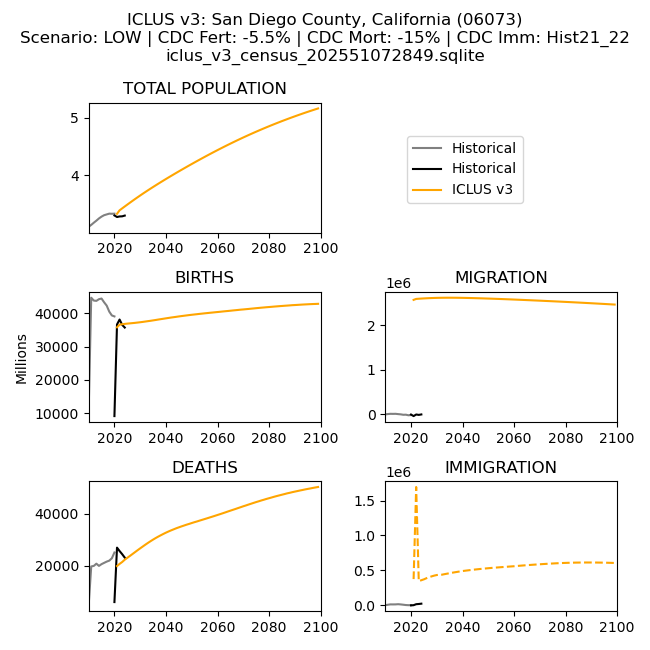
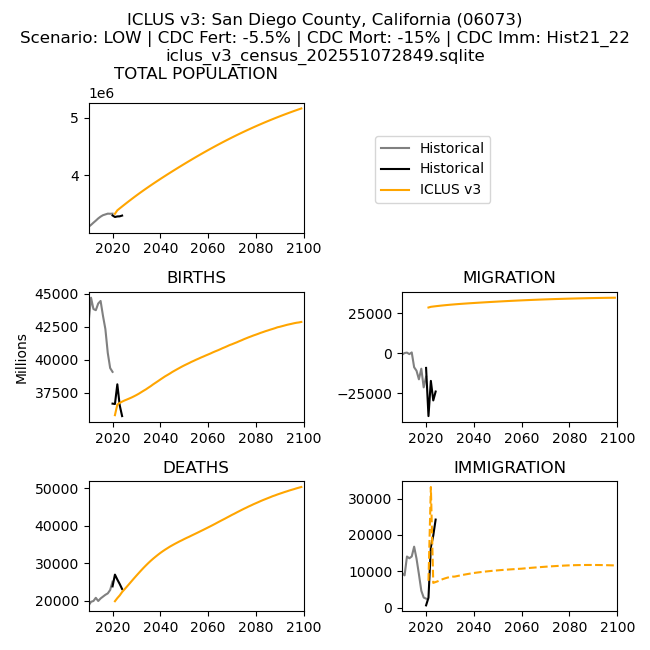
refining figures

diff --git a/population/figures/scripts/county_components_of_change_iclusv3.py b/population/figures/scripts/county_components_of_change_iclusv3.py
@@ -35,12 +35,6 @@ POPULATION_DB = os.path.join(BASE_FOLDER, 'inputs', 'databases', 'population.sql
 # CDC_IMM = 'Hist21_24'
 # SCENARIO = 'mid'
 
-# PROJECTIONS_DB = os.path.join(BASE_FOLDER, 'outputs', 'iclus_v3_census_202556221624.sqlite')
-# CDC_FERT = '-5.5%'
-# CDC_MORT = '-15%'
-# CDC_IMM = 'Hist21_24'
-# SCENARIO = 'hi'
-
 # PROJECTIONS_DB = os.path.join(BASE_FOLDER, 'outputs', 'iclus_v3_census_202557114026.sqlite')
 # CDC_FERT = '-5.5%'
 # CDC_MORT = 'No adj'
@@ -70,14 +64,32 @@ CDC_FERT = '-5.5%'
 CDC_MORT = '-15%'
 CDC_IMM = 'Hist21_22'
 SCENARIO = 'low'
-COFIPS = '06073'
 
+# PROJECTIONS_DB = os.path.join(BASE_FOLDER, 'outputs', 'iclus_v3_census_202558155654.sqlite')
+# CDC_FERT = 'No adj'
+# CDC_MORT = 'No adj'
+# CDC_IMM = 'Hist21_22'
+# SCENARIO = 'mid'
+
+# PROJECTIONS_DB = os.path.join(BASE_FOLDER, 'outputs', 'iclus_v3_census_202556221624.sqlite')
+# CDC_FERT = '-5.5%'
+# CDC_MORT = '-15%'
+# CDC_IMM = 'Hist21_24'
+# SCENARIO = 'hi'
+
+COFIPS_LIST = ('48301',  # Loving County, TX
+               '06037',  # LOs Angeles County, CA
+               '31055',  # Douglas County, NE
+               '41051',  # Multnomah County, OR
+               '51059',  # Fairfax County, VA
+               '29019')  # Boone County, MO
 
 
 class FigureMaker():
-    def __init__(self):
+    def __init__(self, cofips):
         self.fig = plt.figure(figsize=(6.5, 6.5), constrained_layout=True)
         self.gs = self.fig.add_gridspec(3, 2)
+        self.cofips = cofips
 
         # total population
         self.get_historical_total_population()
@@ -104,7 +116,7 @@ class FigureMaker():
         self.get_iclus_v3_projected_immigration()
         self.plot_immigration()
 
-        self.fig.suptitle(f"ICLUS v3: {self.county_name}, {self.state_name} ({COFIPS})\nScenario: {SCENARIO.upper()} | CDC Fert: {CDC_FERT} | CDC Mort: {CDC_MORT} | CDC Imm: {CDC_IMM}\n{os.path.basename(PROJECTIONS_DB)}"
+        self.fig.suptitle(f"ICLUS v3: {self.county_name}, {self.state_name} ({self.cofips})\nScenario: {SCENARIO.upper()} | CDC Fert: {CDC_FERT} | CDC Mort: {CDC_MORT} | CDC Imm: {CDC_IMM}\n{os.path.basename(PROJECTIONS_DB)}"
 )
         plt.tight_layout()
         self.ax_births.legend(bbox_to_anchor=(1.9, 2.25))
@@ -115,12 +127,12 @@ class FigureMaker():
         con = sqlite3.connect(POPULATION_DB)
         sql = f'SELECT YEAR, POPULATION \
                FROM county_population_ageracegender_2010_to_2020 \
-               WHERE COFIPS == "{COFIPS}"'
+               WHERE COFIPS == "{self.cofips}"'
         self.hist_pop_one = pd.read_sql_query(sql=sql, con=con)
         con.close()
 
         self.hist_pop_one = self.hist_pop_one.groupby(by='YEAR', as_index=False).sum()
-        self.hist_pop_one['POPULATION'] /= 1000000
+        # self.hist_pop_one['POPULATION'] /= 1000000
 
         # historical population, 2020-2024
         csv = os.path.join(CENSUS_CSV_PATH, '2024\\co-est2024-alldata.csv')
@@ -128,7 +140,7 @@ class FigureMaker():
         columns = ['STATE', 'COUNTY', 'STNAME', 'CTYNAME'] + ['POPESTIMATE' + str(year) for year in range(2020, 2025)]
         self.hist_pop_two = self.hist_pop_two[columns]
         self.hist_pop_two['COFIPS'] = self.hist_pop_two['STATE'].astype(str).str.zfill(2) + self.hist_pop_two['COUNTY'].astype(str).str.zfill(3)
-        self.hist_pop_two = self.hist_pop_two.query('COFIPS == @COFIPS')
+        self.hist_pop_two = self.hist_pop_two.query('COFIPS == @self.cofips')
         self.county_name = self.hist_pop_two['CTYNAME'].values[0]
         self.state_name = self.hist_pop_two['STNAME'].values[0]
         self.hist_pop_two.drop(columns=['STATE', 'COUNTY', 'STNAME', 'CTYNAME'], inplace=True)
@@ -136,12 +148,12 @@ class FigureMaker():
         self.hist_pop_two = self.hist_pop_two.melt(id_vars='COFIPS', var_name='YEAR', value_name='POPULATION')
         self.hist_pop_two = self.hist_pop_two.drop(columns='COFIPS')
         self.hist_pop_two['YEAR'] = self.hist_pop_two['YEAR'].str.replace('POPESTIMATE', '').astype(int)
-        self.hist_pop_two['POPULATION'] /= 1000000
+        # self.hist_pop_two['POPULATION'] /= 1000000
 
     def get_iclus_v3_projected_total_population(self):
         query = f'SELECT * \
                   FROM population_by_race_sex_age_{SCENARIO} \
-                  WHERE GEOID == "{COFIPS}"'
+                  WHERE GEOID == "{self.cofips}"'
         con = sqlite3.connect(PROJECTIONS_DB)
         self.iclusv3_pop = pd.read_sql_query(sql=query, con=con)
         con.close()
@@ -152,7 +164,7 @@ class FigureMaker():
         self.iclusv3_pop = self.iclusv3_pop[['YEAR', 'POPULATION']].groupby(by='YEAR', as_index=False).sum()
         self.iclusv3_pop['YEAR'] = self.iclusv3_pop['YEAR'].astype(int64)
         self.iclusv3_pop['POPULATION'] = self.iclusv3_pop['POPULATION'].astype(int64)
-        self.iclusv3_pop['POPULATION'] /= 1000000
+        # self.iclusv3_pop['POPULATION'] /= 1000000
 
 
     def plot_total_population(self):
@@ -175,12 +187,13 @@ class FigureMaker():
         columns = ['STATE', 'COUNTY'] + ['BIRTHS' + str(year) for year in range(2010, 2021)]
         self.hist_births_one = self.hist_births_one[columns]
         self.hist_births_one['COFIPS'] = self.hist_births_one['STATE'].astype(str).str.zfill(2) + self.hist_births_one['COUNTY'].astype(str).str.zfill(3)
-        self.hist_births_one = self.hist_births_one.query('COFIPS == @COFIPS')
+        self.hist_births_one = self.hist_births_one.query('COFIPS == @self.cofips')
         self.hist_births_one.drop(columns=['STATE', 'COUNTY'], inplace=True)
 
         self.hist_births_one = self.hist_births_one.melt(id_vars='COFIPS', var_name='YEAR', value_name='BIRTHS')
         self.hist_births_one = self.hist_births_one.drop(columns='COFIPS')
         self.hist_births_one['YEAR'] = self.hist_births_one['YEAR'].str.replace('BIRTHS', '').astype(int)
+        self.hist_births_one.loc[self.hist_births_one['YEAR'] == 2010, 'BIRTHS'] *= 4
         # self.hist_births_one['BIRTHS'] /= 1000000
 
         # historical births, 2020-2024
@@ -189,18 +202,19 @@ class FigureMaker():
         columns = ['STATE', 'COUNTY'] + ['BIRTHS' + str(year) for year in range(2020, 2025)]
         self.hist_births_two = self.hist_births_two[columns]
         self.hist_births_two['COFIPS'] = self.hist_births_two['STATE'].astype(str).str.zfill(2) + self.hist_births_two['COUNTY'].astype(str).str.zfill(3)
-        self.hist_births_two = self.hist_births_two.query('COFIPS == @COFIPS')
+        self.hist_births_two = self.hist_births_two.query('COFIPS == @self.cofips')
         self.hist_births_two.drop(columns=['STATE', 'COUNTY'], inplace=True)
 
         self.hist_births_two = self.hist_births_two.melt(id_vars='COFIPS', var_name='YEAR', value_name='BIRTHS')
         self.hist_births_two = self.hist_births_two.drop(columns='COFIPS')
         self.hist_births_two['YEAR'] = self.hist_births_two['YEAR'].str.replace('BIRTHS', '').astype(int)
+        self.hist_births_two.loc[self.hist_births_two['YEAR'] == 2020, 'BIRTHS'] *= 4
         # self.hist_births_two['BIRTHS'] /= 1000000
 
     def get_iclus_v3_projected_births(self):
         query = f'SELECT * \
                   FROM births_by_race_sex_age_{SCENARIO} \
-                  WHERE GEOID == "{COFIPS}"'
+                  WHERE GEOID == "{self.cofips}"'
         con = sqlite3.connect(PROJECTIONS_DB)
         self.iclusv3_births = pd.read_sql_query(sql=query, con=con)
         con.close()
@@ -232,12 +246,13 @@ class FigureMaker():
         columns = ['STATE', 'COUNTY'] + ['DEATHS' + str(year) for year in range(2010, 2021)]
         self.hist_deaths_one = self.hist_deaths_one[columns]
         self.hist_deaths_one['COFIPS'] = self.hist_deaths_one['STATE'].astype(str).str.zfill(2) + self.hist_deaths_one['COUNTY'].astype(str).str.zfill(3)
-        self.hist_deaths_one = self.hist_deaths_one.query('COFIPS == @COFIPS')
+        self.hist_deaths_one = self.hist_deaths_one.query('COFIPS == @self.cofips')
         self.hist_deaths_one.drop(columns=['STATE', 'COUNTY'], inplace=True)
 
         self.hist_deaths_one = self.hist_deaths_one.melt(id_vars='COFIPS', var_name='YEAR', value_name='DEATHS')
         self.hist_deaths_one = self.hist_deaths_one.drop(columns='COFIPS')
         self.hist_deaths_one['YEAR'] = self.hist_deaths_one['YEAR'].str.replace('DEATHS', '').astype(int)
+        self.hist_deaths_one.loc[self.hist_deaths_one['YEAR'] == 2010, 'DEATHS'] *= 4
         # self.hist_deaths_one['DEATHS'] /= 1000000
 
         # historical deaths, 2020-2024
@@ -246,18 +261,19 @@ class FigureMaker():
         columns = ['STATE', 'COUNTY'] + ['DEATHS' + str(year) for year in range(2020, 2025)]
         self.hist_deaths_two = self.hist_deaths_two[columns]
         self.hist_deaths_two['COFIPS'] = self.hist_deaths_two['STATE'].astype(str).str.zfill(2) + self.hist_deaths_two['COUNTY'].astype(str).str.zfill(3)
-        self.hist_deaths_two = self.hist_deaths_two.query('COFIPS == @COFIPS')
+        self.hist_deaths_two = self.hist_deaths_two.query('COFIPS == @self.cofips')
         self.hist_deaths_two.drop(columns=['STATE', 'COUNTY'], inplace=True)
 
         self.hist_deaths_two = self.hist_deaths_two.melt(id_vars='COFIPS', var_name='YEAR', value_name='DEATHS')
         self.hist_deaths_two = self.hist_deaths_two.drop(columns='COFIPS')
         self.hist_deaths_two['YEAR'] = self.hist_deaths_two['YEAR'].str.replace('DEATHS', '').astype(int)
+        self.hist_deaths_two.loc[self.hist_deaths_two['YEAR'] == 2020, 'DEATHS'] *= 4
         # self.hist_deaths_two['DEATHS'] /= 1000000
 
     def get_iclus_v3_projected_deaths(self):
         query = f'SELECT * \
                   FROM deaths_by_race_sex_age_{SCENARIO} \
-                  WHERE GEOID == "{COFIPS}"'
+                  WHERE GEOID == "{self.cofips}"'
         con = sqlite3.connect(PROJECTIONS_DB)
         self.iclusv3_deaths = pd.read_sql_query(sql=query, con=con)
         con.close()
@@ -288,33 +304,37 @@ class FigureMaker():
         # historical migration, 2010-2020
         csv = os.path.join(CENSUS_CSV_PATH, '2020\\co-est2020-alldata.csv')
         self.hist_migration_one = pd.read_csv(csv, encoding='latin-1')
-        columns = ['STATE', 'COUNTY'] + ['NETMIG' + str(year) for year in range(2010, 2021)]
+        columns = ['STATE', 'COUNTY'] + ['DOMESTICMIG' + str(year) for year in range(2010, 2021)]
         self.hist_migration_one = self.hist_migration_one[columns]
         self.hist_migration_one['COFIPS'] = self.hist_migration_one['STATE'].astype(str).str.zfill(2) + self.hist_migration_one['COUNTY'].astype(str).str.zfill(3)
-        self.hist_migration_one = self.hist_migration_one.query('COFIPS == @COFIPS')
+        self.hist_migration_one = self.hist_migration_one.query('COFIPS == @self.cofips')
         self.hist_migration_one.drop(columns=['STATE', 'COUNTY'], inplace=True)
 
         self.hist_migration_one = self.hist_migration_one.melt(id_vars='COFIPS', var_name='YEAR', value_name='MIGRATION')
         self.hist_migration_one = self.hist_migration_one.drop(columns='COFIPS')
-        self.hist_migration_one['YEAR'] = self.hist_migration_one['YEAR'].str.replace('NETMIG', '').astype(int)
+        self.hist_migration_one['YEAR'] = self.hist_migration_one['YEAR'].str.replace('DOMESTICMIG', '').astype(int)
+        self.hist_migration_one.loc[self.hist_migration_one['YEAR'] == 2010, 'MIGRATION'] *= 4
         # self.hist_migration_one['MIGRATION'] /= 1000000
 
         # historical migration, 2020-2024
         csv = os.path.join(CENSUS_CSV_PATH, '2024\\co-est2024-alldata.csv')
         self.hist_migration_two = pd.read_csv(csv, encoding='latin-1')
-        columns = ['STATE', 'COUNTY'] + ['NETMIG' + str(year) for year in range(2020, 2025)]
+        columns = ['STATE', 'COUNTY'] + ['DOMESTICMIG' + str(year) for year in range(2020, 2025)]
         self.hist_migration_two = self.hist_migration_two[columns]
         self.hist_migration_two['COFIPS'] = self.hist_migration_two['STATE'].astype(str).str.zfill(2) + self.hist_migration_two['COUNTY'].astype(str).str.zfill(3)
-        self.hist_migration_two = self.hist_migration_two.query('COFIPS == @COFIPS')
+        self.hist_migration_two = self.hist_migration_two.query('COFIPS == @self.cofips')
         self.hist_migration_two.drop(columns=['STATE', 'COUNTY'], inplace=True)
 
         self.hist_migration_two = self.hist_migration_two.melt(id_vars='COFIPS', var_name='YEAR', value_name='MIGRATION')
         self.hist_migration_two = self.hist_migration_two.drop(columns='COFIPS')
-        self.hist_migration_two['YEAR'] = self.hist_migration_two['YEAR'].str.replace('NETMIG', '').astype(int)
+        self.hist_migration_two['YEAR'] = self.hist_migration_two['YEAR'].str.replace('DOMESTICMIG', '').astype(int)
+        self.hist_migration_two.loc[self.hist_migration_two['YEAR'] == 2020, 'MIGRATION'] *= 4
         # self.hist_migration_two['MIGRATION'] /= 1000000
 
     def get_iclus_v3_projected_migration(self):
-        query = f'SELECT * FROM migration_by_race_sex_age_{SCENARIO}'
+        query = f'SELECT * \
+                  FROM migration_by_race_sex_age_{SCENARIO} \
+                  WHERE GEOID == "{self.cofips}"'
         con = sqlite3.connect(PROJECTIONS_DB)
         self.iclusv3_migration = pd.read_sql_query(sql=query, con=con)
         con.close()
@@ -351,12 +371,13 @@ class FigureMaker():
         columns = ['STATE', 'COUNTY'] + ['INTERNATIONALMIG' + str(year) for year in range(2010, 2021)]
         self.hist_immigration_one = self.hist_immigration_one[columns]
         self.hist_immigration_one['COFIPS'] = self.hist_immigration_one['STATE'].astype(str).str.zfill(2) + self.hist_immigration_one['COUNTY'].astype(str).str.zfill(3)
-        self.hist_immigration_one = self.hist_immigration_one.query('COFIPS == @COFIPS')
+        self.hist_immigration_one = self.hist_immigration_one.query('COFIPS == @self.cofips')
         self.hist_immigration_one.drop(columns=['STATE', 'COUNTY'], inplace=True)
 
         self.hist_immigration_one = self.hist_immigration_one.melt(id_vars='COFIPS', var_name='YEAR', value_name='IMMIGRATION')
         self.hist_immigration_one = self.hist_immigration_one.drop(columns='COFIPS')
         self.hist_immigration_one['YEAR'] = self.hist_immigration_one['YEAR'].str.replace('INTERNATIONALMIG', '').astype(int)
+        self.hist_immigration_one.loc[self.hist_immigration_one['YEAR'] == 2010, 'IMMIGRATION'] *= 4
         # self.hist_immigration_one['IMMIGRATION'] /= 1000000
 
         # historical immigration, 2020-2024
@@ -365,27 +386,35 @@ class FigureMaker():
         columns = ['STATE', 'COUNTY'] + ['INTERNATIONALMIG' + str(year) for year in range(2020, 2025)]
         self.hist_immigration_two = self.hist_immigration_two[columns]
         self.hist_immigration_two['COFIPS'] = self.hist_immigration_two['STATE'].astype(str).str.zfill(2) + self.hist_immigration_two['COUNTY'].astype(str).str.zfill(3)
-        self.hist_immigration_two = self.hist_immigration_two.query('COFIPS == @COFIPS')
+        self.hist_immigration_two = self.hist_immigration_two.query('COFIPS == @self.cofips')
         self.hist_immigration_two.drop(columns=['STATE', 'COUNTY'], inplace=True)
 
         self.hist_immigration_two = self.hist_immigration_two.melt(id_vars='COFIPS', var_name='YEAR', value_name='IMMIGRATION')
         self.hist_immigration_two = self.hist_immigration_two.drop(columns='COFIPS')
         self.hist_immigration_two['YEAR'] = self.hist_immigration_two['YEAR'].str.replace('INTERNATIONALMIG', '').astype(int)
+        self.hist_immigration_two.loc[self.hist_immigration_two['YEAR'] == 2020, 'IMMIGRATION'] *= 4
         # self.hist_immigration_two['IMMIGRATION'] /= 1000000
 
     def get_iclus_v3_projected_immigration(self):
-        query = f'SELECT * FROM immigration_by_race_sex_age_{SCENARIO}'
+        query = f'SELECT * \
+                  FROM immigration_by_race_sex_age_{SCENARIO} \
+                  WHERE GEOID == "{self.cofips}"'
         con = sqlite3.connect(PROJECTIONS_DB)
         self.iclusv3_immigration = pd.read_sql_query(sql=query, con=con)
         con.close()
 
-        self.iclusv3_immigration = self.iclusv3_immigration.melt(id_vars=['GEOID', 'AGE_GROUP', 'RACE', 'SEX'],
-                                                 var_name='YEAR',
-                                                 value_name='IMMIGRATION')
-        self.iclusv3_immigration = self.iclusv3_immigration[['YEAR', 'IMMIGRATION']].groupby(by='YEAR', as_index=False).sum()
-        self.iclusv3_immigration['YEAR'] = self.iclusv3_immigration['YEAR'].astype(int64)
-        self.iclusv3_immigration['IMMIGRATION'] = self.iclusv3_immigration['IMMIGRATION'].astype(int64)
-        # self.iclusv3_immigration['IMMIGRATION'] /= 1000000
+        if self.iclusv3_immigration.empty:
+            self.iclusv3_immigration = pd.DataFrame()
+            self.iclusv3_immigration['YEAR'] = range(2021, 2100)
+            self.iclusv3_immigration['IMMIGRATION'] = 0
+        else:
+            self.iclusv3_immigration = self.iclusv3_immigration.melt(id_vars=['GEOID', 'AGE_GROUP', 'RACE', 'SEX'],
+                                                    var_name='YEAR',
+                                                    value_name='IMMIGRATION')
+            self.iclusv3_immigration = self.iclusv3_immigration[['YEAR', 'IMMIGRATION']].groupby(by='YEAR', as_index=False).sum()
+            self.iclusv3_immigration['YEAR'] = self.iclusv3_immigration['YEAR'].astype(int64)
+            self.iclusv3_immigration['IMMIGRATION'] = self.iclusv3_immigration['IMMIGRATION'].astype(int64)
+            # self.iclusv3_immigration['IMMIGRATION'] /= 1000000
 
 
     def plot_immigration(self):
@@ -403,7 +432,8 @@ class FigureMaker():
 
 
 def main():
-    FigureMaker()
+    for cofips in COFIPS_LIST:
+        FigureMaker(cofips=cofips)
 
 
 if __name__ == '__main__':

diff --git a/population/inputs/scripts/create_tables_for_gravity_Census_1990_race.py b/population/inputs/scripts/create_tables_for_gravity_Census_1990_race.py
@@ -7,10 +7,15 @@ import sqlite3
 
 import pandas as pd
 
-DATABASE_FOLDER = 'D:\\OneDrive\\ICLUS_v3\\population\\inputs\\databases'
+BASE_FOLDER = 'D:\\projects\\ICLUS_v3\\population'
+if os.path.isdir('D:\\OneDrive\\ICLUS_v3\\population'):
+    BASE_FOLDER = 'D:\\OneDrive\\ICLUS_v3\\population'
+
+DATABASE_FOLDER = os.path.join(BASE_FOLDER, 'inputs\\databases')
 MIGRATION_DB = os.path.join(DATABASE_FOLDER, 'migration.sqlite')
 POPULATION_DB = os.path.join(DATABASE_FOLDER, 'population.sqlite')
 ANALYSIS_DB = os.path.join(DATABASE_FOLDER, 'analysis.sqlite')
+CENSUS_CSV_PATH = os.path.join(BASE_FOLDER, 'inputs\\raw_files\\Census')
 
 AGE_GROUPS = ('5_TO_9',
               '10_TO_14',
@@ -30,6 +35,23 @@ AGE_GROUPS = ('5_TO_9',
               '80_TO_84',
               '85_TO_115')
 
+
+def make_fips_changes(df):
+    con =sqlite3.connect(MIGRATION_DB)
+    query = 'SELECT OLD_FIPS AS COFIPS, NEW_FIPS \
+             FROM fips_or_name_changes'
+    df_fips = pd.read_sql_query(sql=query, con=con)
+    con.close()
+
+    df = df.merge(right=df_fips,
+                  how='left',
+                  on='COFIPS')
+
+    df.loc[~df.NEW_FIPS.isnull(), 'COFIPS'] = df['NEW_FIPS']
+    df = df.drop(columns='NEW_FIPS')
+    df = df.groupby(by='COFIPS', as_index=False).sum()
+
+    return df
 
 def get_migration(race, age_group):
     con = sqlite3.connect(MIGRATION_DB)
@@ -68,7 +90,20 @@ def get_census_population(race):
     return df
 
 
-def merge_dataframes(distance_df, population_df, migration_df, dummy_df):
+def get_census_immigration():
+    # historical immigration, 2013-2017
+    csv = os.path.join(CENSUS_CSV_PATH, '2020\\co-est2020-alldata.csv')
+    df = pd.read_csv(csv, encoding='latin-1')
+    columns = ['STATE', 'COUNTY'] + ['INTERNATIONALMIG' + str(year) for year in range(2013, 2018)]
+    df = df[columns]
+    df['COFIPS'] = df['STATE'].astype(str).str.zfill(2) + df['COUNTY'].astype(str).str.zfill(3)
+    df = df.drop(columns=['STATE', 'COUNTY'])
+    df = make_fips_changes(df)
+    df = df.set_index('COFIPS').mean(axis=1).round().astype(int).reset_index()
+
+    return df
+
+def merge_dataframes(distance_df, population_df, migration_df, dummy_df, immigration_df):
     df = distance_df.merge(right=migration_df, how='left', on=['ORIGIN_FIPS', 'DESTINATION_FIPS'], copy=False)
     df = df.fillna(value=0)
     df = df.merge(right=population_df, how='inner', left_on='ORIGIN_FIPS', right_on='COFIPS', copy=False)
@@ -159,10 +194,12 @@ def label_urban_destinations(df):
     return df
 
 
+
 def main():
     distance_df = get_euclidean_distance()
     dummy_df = label_intra_labor_market_moves(distance_df)
     dummy_df = label_urban_destinations(dummy_df)
+    immigration_df = get_census_immigration()
 
     for race in ('WHITE', 'BLACK', 'AIAN', 'API', 'OTHER'):
         print(f"\nStarting {race}...")
@@ -172,7 +209,8 @@ def main():
             df = merge_dataframes(distance_df=distance_df,
                                   population_df=population_df,
                                   migration_df=migration_df,
-                                  dummy_df=dummy_df)
+                                  dummy_df=dummy_df,
+                                  immigration_df=immigration_df)
 
             # variables calculated from the perspective of the origin
             df.sort_values(by=['ORIGIN_FIPS', 'Dij'], inplace=True)
@@ -195,7 +233,7 @@ def main():
 
             db = os.path.join(DATABASE_FOLDER, 'zinb_regression_inputs.sqlite')
             con = sqlite3.connect(db)
-            df.to_sql(name=f'zinb_inputs_Census_1990_{race}_{age_group}',
+            df.to_sql(name=f'zinb_inputs_Census_1990_{race}_{age_group}_v2',
                     con=con,
                     if_exists='replace',
                     index=False)
